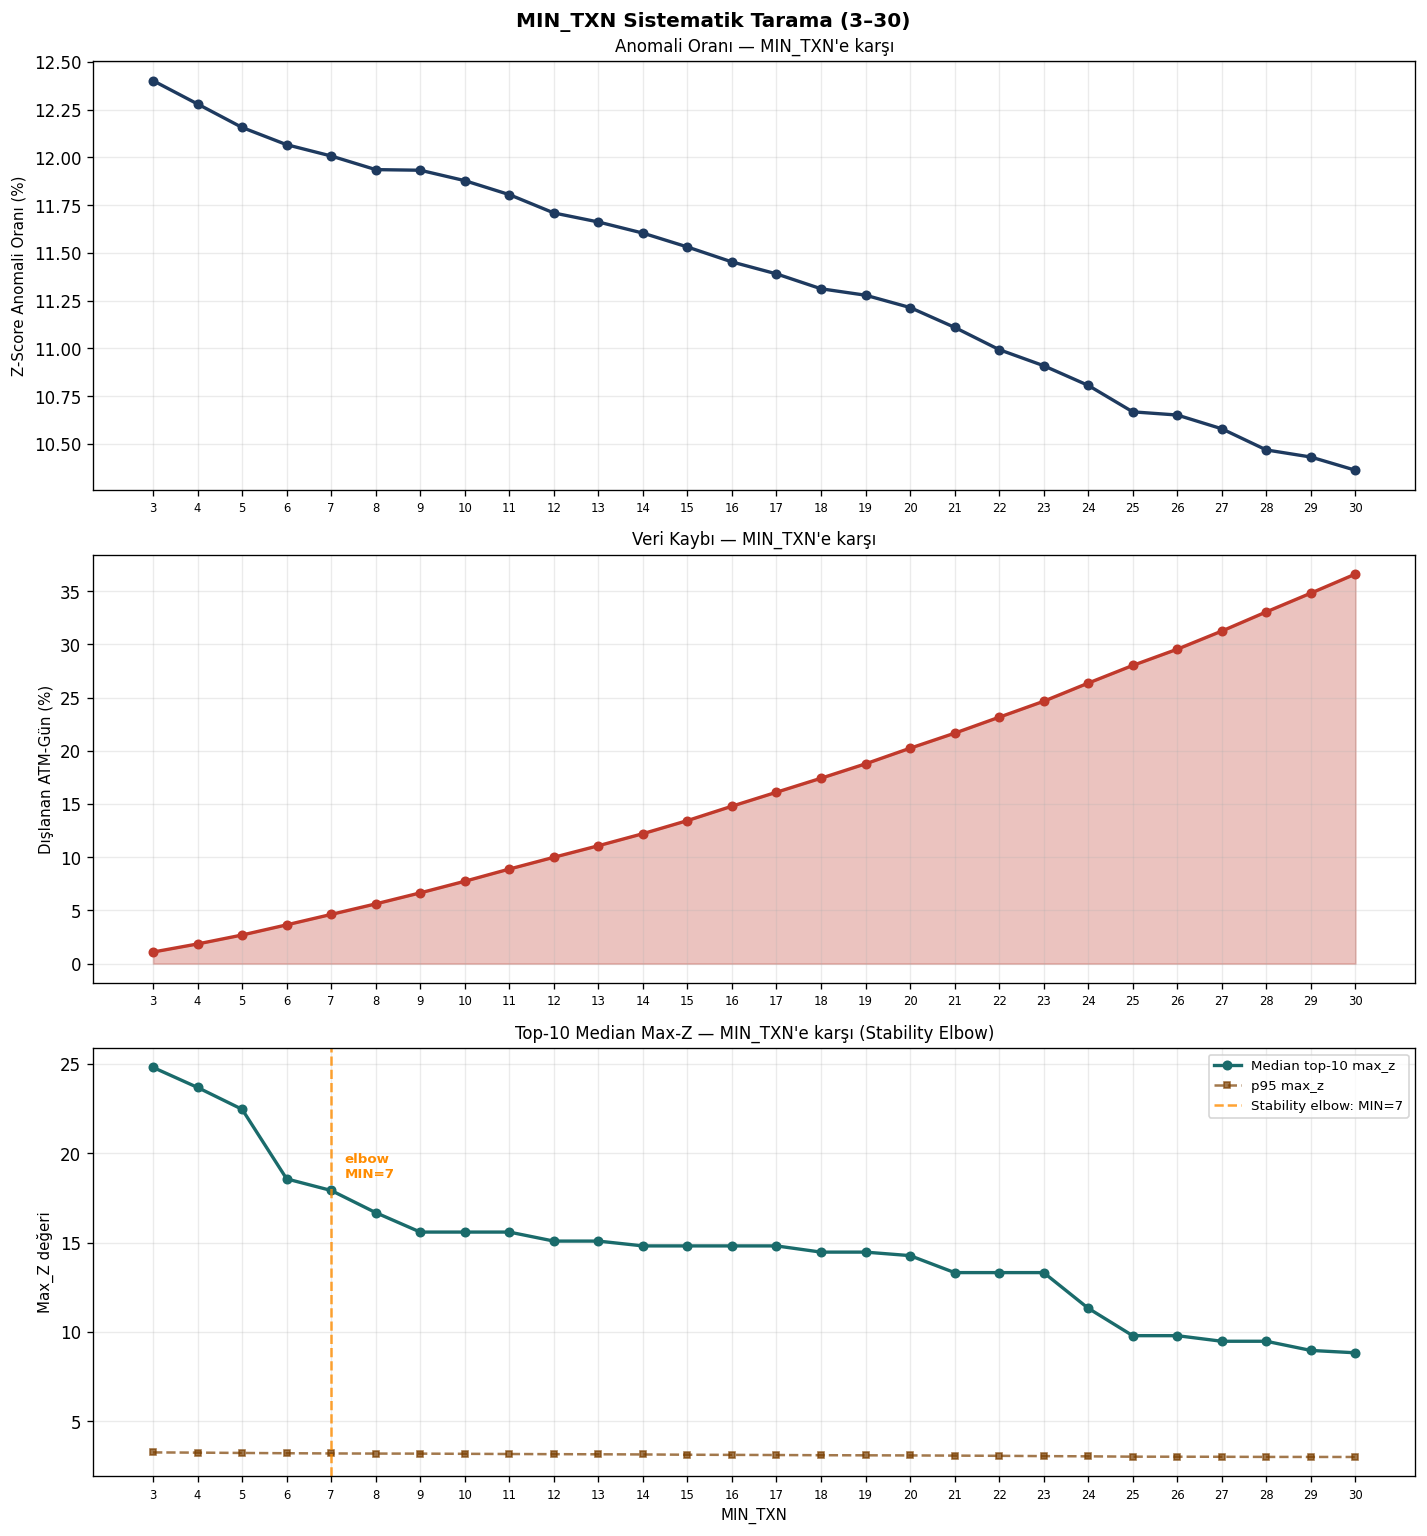
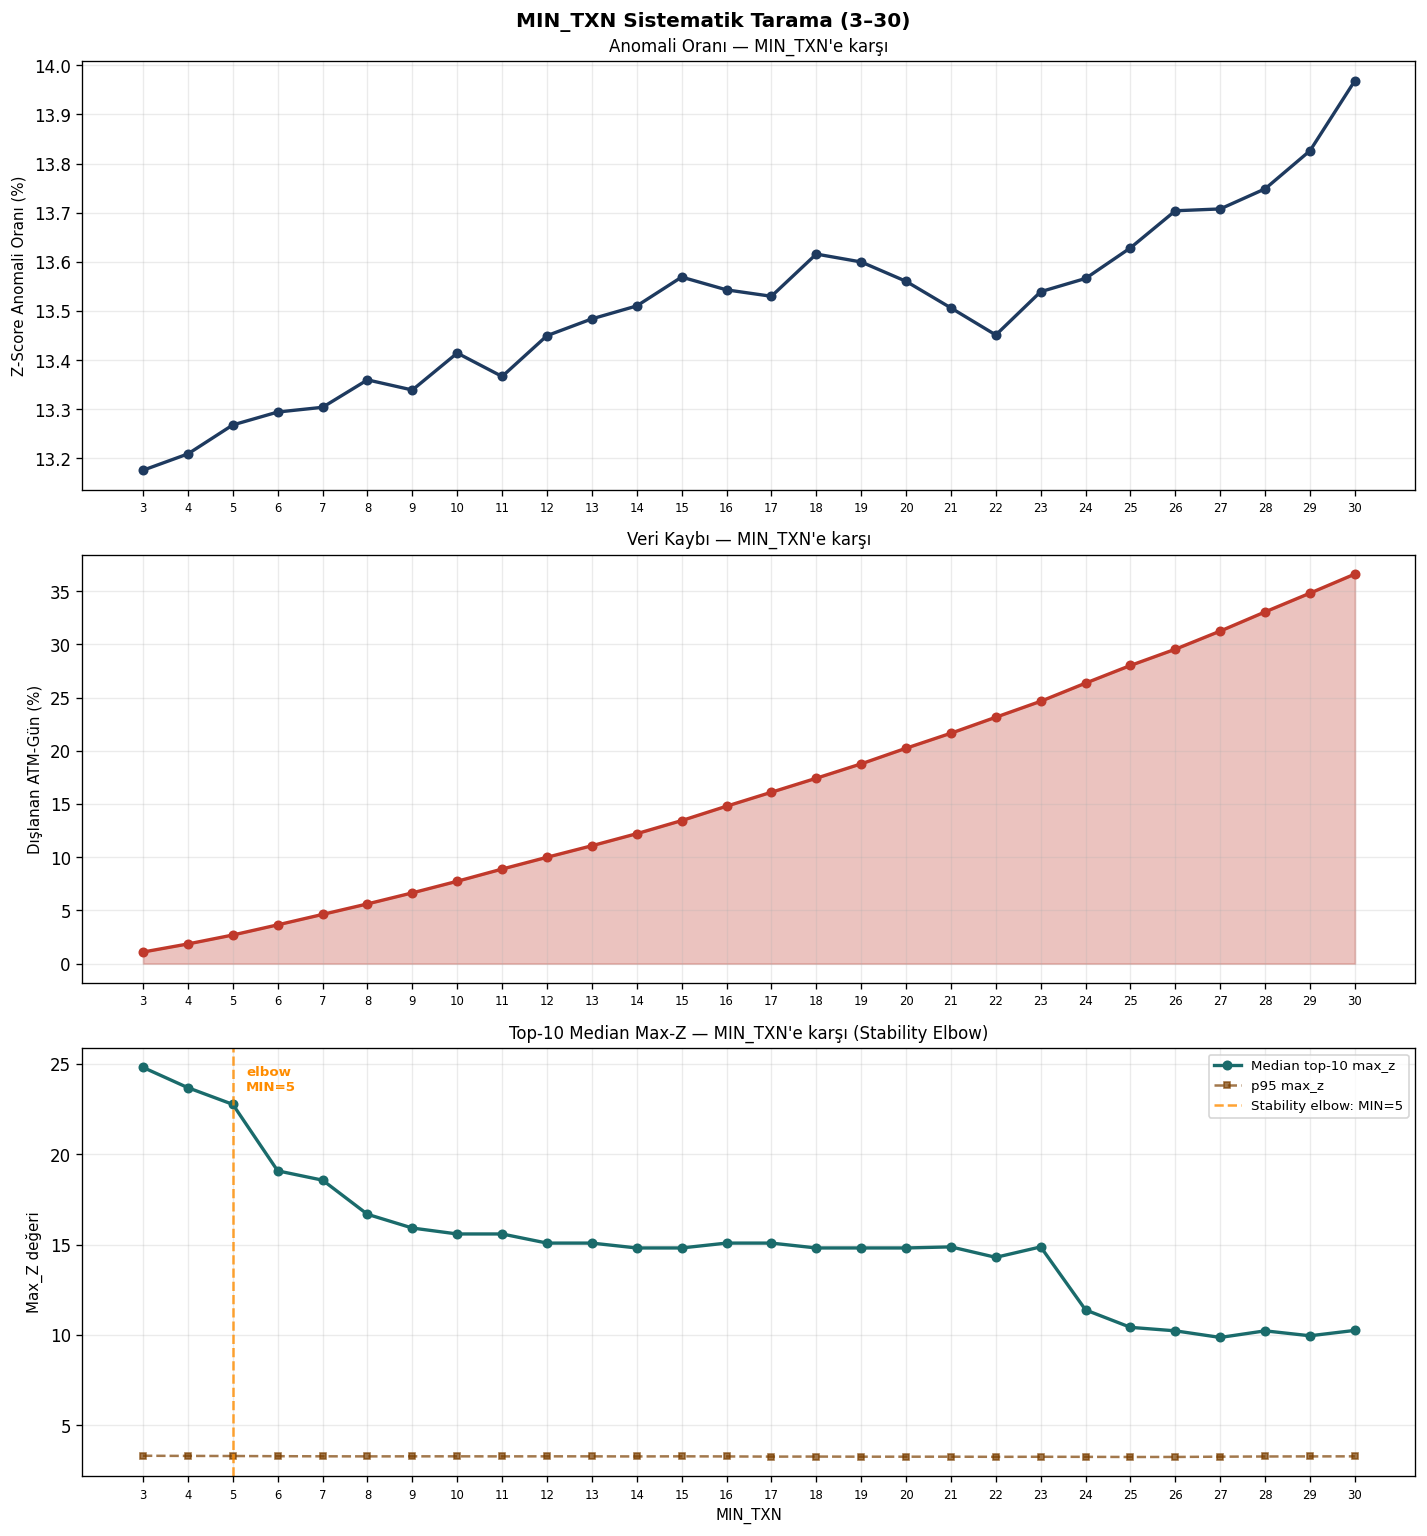
Masked baseline metrikleri rapora guncellendi
- Z-score anomali %: 11.9 -> 13.4 (~4.475 gun)
- IF+Z ortak %: 4.5 -> 4.7 (~1.580 gun)
- Sweep script: her MIN_TXN icin masked baseline z-score hesabi
- atm_twin_v3.py: unicode duzeltmeleri (sigma, pm isaretleri)

diff --git a/atm_mintxn_sweep.py b/atm_mintxn_sweep.py
@@ -1,8 +1,7 @@
 """
 MIN_TXN Sistematik Tarama — 3'ten 30'a
-Z-score bir kez hesaplanır (maskeleme yok); her eşik için maskeleme uygulanır.
-Baseline sabit tutulmuş yaklaşım: stability elbow tespiti için yeterli doğruluk.
-Final pipeline (atm_twin_v3.py) baseline'ı yalnızca geçerli günlerden hesaplar.
+Her eşik için z-score'lar final pipeline (atm_twin_v3.py) ile aynı metodoloji ile
+hesaplanir: txn_count < MIN_TXN olan gunler rolling baseline'a dahil edilmez.
 """
 import pathlib
 import pandas as pd
@@ -71,31 +70,38 @@ daily["peak_rate"]       = (daily["peak_count"]       / daily["txn_count"]).clip
 daily["night_rate"]      = (daily["night_count"]      / daily["txn_count"]).clip(0,1)
 daily["morning_rate"]    = (daily["morning_count"]    / daily["txn_count"]).clip(0,1)
 daily["mastercard_rate"] = (daily["mastercard_count"] / daily["txn_count"]).clip(0,1)
-daily["calendar_context"] = np.where(daily["date"].dt.day >= 28, "month_end", "")
+daily["calendar_context"] = np.where(daily["date"].dt.day >= 28, "month_end_window", "")
 daily = daily.sort_values(["atm_id","date"]).reset_index(drop=True)
 
 feature_cols = ["txn_count","peak_rate","night_rate","morning_rate","mastercard_rate","hour_entropy"]
 print(f"Günlük tablo: {len(daily):,} ATM-gün")
 
 # ═══════════════════════════════════════════════════════════════════════════════
-# 2. ROLLING Z-SCORE — TÜM GÜNLER (maskeleme yok, bir kez)
+# 2. MASKELENMIŞ Z-SCORE FONKSİYONU — final pipeline ile özdeş
 # ═══════════════════════════════════════════════════════════════════════════════
-print("Rolling z-score hesaplanıyor (bir kez, tüm günler)...")
-
-def rzs_all(group, col):
-    rm   = group[col].shift(1).rolling(WINDOW_D, min_periods=7).mean()
-    rs   = group[col].shift(1).rolling(WINDOW_D, min_periods=7).std()
+def rzs_masked(group, col, min_txn):
+    # Baseline yalnızca geçerli günlerden: txn_count < min_txn olan günler NaN maskelenir,
+    # rolling hesabı NaN'ları atlar. Final pipeline (atm_twin_v3.py) ile aynı mantık.
+    col_valid = group[col].where(group["txn_count"] >= min_txn, other=np.nan)
+    rm   = col_valid.shift(1).rolling(WINDOW_D, min_periods=7).mean()
+    rs   = col_valid.shift(1).rolling(WINDOW_D, min_periods=7).std()
     safe = rs.where(rs >= MIN_STD, other=np.nan)
     z    = (group[col] - rm) / safe
-    return z.fillna(0)
+    z    = z.fillna(0)
+    z[group["txn_count"] < min_txn] = np.nan
+    return z
 
-for f in feature_cols:
-    res = daily.groupby("atm_id", group_keys=False).apply(lambda g: rzs_all(g, f))
-    daily[f"z_{f}"] = res.values
-
-z_cols = [f"z_{f}" for f in feature_cols]
-daily["raw_max_z"]  = daily[z_cols].abs().max(axis=1, skipna=True)
-daily["raw_n_flag"] = (daily[z_cols].abs() > Z_THR).sum(axis=1)
+def compute_zscores_for_mt(min_txn):
+    d = daily.copy()
+    for f in feature_cols:
+        res = d.groupby("atm_id", group_keys=False).apply(
+            lambda g, f=f: rzs_masked(g, f, min_txn)
+        )
+        d[f"z_{f}"] = res.values
+    z_cols = [f"z_{f}" for f in feature_cols]
+    d["max_z"] = d[z_cols].abs().max(axis=1, skipna=True)
+    d["n_flag"] = (d[z_cols].abs() > Z_THR).sum(axis=1)
+    return d
 
 # ═══════════════════════════════════════════════════════════════════════════════
 # 3. SWEEP: MIN_TXN = 3..30
@@ -103,59 +109,63 @@ daily["raw_n_flag"] = (daily[z_cols].abs() > Z_THR).sum(axis=1)
 TARGET_ATM  = 15
 TARGET_DATE = pd.Timestamp("2017-08-31")
 SWEEP_VALS  = list(range(3, 31))
+CHECK_PTS   = [5, 8, 10, 12, 15, 20]
 
 rows = []
-print("Sweep başlıyor (3–30)...")
+top10_cache = {}   # check_pts için top-10 detayını sakla
+print("Sweep başlıyor (3–30) — her eşik için z-score yeniden hesaplanıyor...")
 
 for mt in SWEEP_VALS:
-    mask_valid   = daily["txn_count"] >= mt
-    valid        = daily[mask_valid]
-    excluded_n   = (~mask_valid).sum()
-    excl_pct     = excluded_n / len(daily) * 100
+    print(f"  MIN_TXN={mt}...", end="\r")
+    d = compute_zscores_for_mt(mt)
 
-    # Anomali: valid günlerde |z| > Z_THR olan feature var mı?
-    anom_mask    = (valid["raw_n_flag"] >= 1)
-    z_anom       = anom_mask.sum()
-    z_anom_pct   = anom_mask.mean() * 100
+    valid       = d[d["txn_count"] >= mt]
+    excluded_n  = (d["txn_count"] < mt).sum()
+    excl_pct    = excluded_n / len(d) * 100
 
-    # Top-10 max_z (valid günler)
-    top10_maxz   = valid["raw_max_z"].nlargest(10)
-    top10_txn    = valid.loc[top10_maxz.index, "txn_count"]
-    median_top10 = top10_maxz.median()
-    p95_maxz     = valid["raw_max_z"].quantile(0.95)
-    max_maxz     = valid["raw_max_z"].max()
+    anom_mask   = (valid["n_flag"] >= 1)
+    z_anom      = anom_mask.sum()
+    z_anom_pct  = anom_mask.mean() * 100
 
-    # Top-10 txn_count dağılımı
+    top10_maxz      = valid["max_z"].nlargest(10)
+    top10_txn       = valid.loc[top10_maxz.index, "txn_count"]
+    median_top10    = top10_maxz.median()
+    p95_maxz        = valid["max_z"].quantile(0.95)
+    max_maxz        = valid["max_z"].max()
     top10_txn_median = top10_txn.median()
-    top10_txn_min    = top10_txn.min()
+    top10_txn_min   = top10_txn.min()
 
-    # ATM 15 / 31 Ağustos
-    r15 = daily[(daily["atm_id"]==TARGET_ATM) & (daily["date"]==TARGET_DATE)]
+    r15 = d[(d["atm_id"]==TARGET_ATM) & (d["date"]==TARGET_DATE)]
     if not r15.empty:
         tc15   = int(r15["txn_count"].values[0])
-        z15    = float(r15["z_txn_count"].values[0])
+        z15    = float(r15["z_txn_count"].values[0]) if pd.notna(r15["z_txn_count"].values[0]) else 0.0
         anom15 = (tc15 >= mt) and (abs(z15) > Z_THR)
     else:
         tc15, z15, anom15 = 0, 0.0, False
 
     rows.append({
-        "min_txn":          mt,
-        "valid_days":       len(valid),
-        "excluded_days":    excluded_n,
-        "excl_pct":         excl_pct,
-        "z_anom":           z_anom,
-        "z_anom_pct":       z_anom_pct,
-        "median_top10_maxz":median_top10,
-        "p95_maxz":         p95_maxz,
-        "max_maxz":         max_maxz,
-        "top10_txn_median": top10_txn_median,
-        "top10_txn_min":    top10_txn_min,
-        "atm15_anom":       anom15,
-        "atm15_z":          z15,
+        "min_txn":           mt,
+        "valid_days":        len(valid),
+        "excluded_days":     excluded_n,
+        "excl_pct":          excl_pct,
+        "z_anom":            z_anom,
+        "z_anom_pct":        z_anom_pct,
+        "median_top10_maxz": median_top10,
+        "p95_maxz":          p95_maxz,
+        "max_maxz":          max_maxz,
+        "top10_txn_median":  top10_txn_median,
+        "top10_txn_min":     top10_txn_min,
+        "atm15_anom":        anom15,
+        "atm15_z":           z15,
     })
 
+    if mt in CHECK_PTS:
+        t10 = valid.nlargest(10, "max_z")[["atm_id","date","txn_count","max_z"]].copy()
+        t10["date"] = t10["date"].dt.date
+        top10_cache[mt] = t10
+
 sweep = pd.DataFrame(rows)
-print("Sweep tamamlandı.")
+print("\nSweep tamamlandı.    ")
 
 # ═══════════════════════════════════════════════════════════════════════════════
 # 4. KONSOL TABLOSU
@@ -173,31 +183,28 @@ for _, r in sweep.iterrows():
           f"{r['p95_maxz']:>7.2f} {r['max_maxz']:>7.2f} "
           f"{r['top10_txn_median']:>14.0f} {atm_mark:>6}")
 
-# Stability elbow: top10 median max_z'nin değişim hızı
-sweep["delta_med"] = sweep["median_top10_maxz"].diff().abs()
+sweep["delta_med"]   = sweep["median_top10_maxz"].diff().abs()
 sweep["delta_pct_z"] = sweep["z_anom_pct"].diff().abs()
 
 print("\n--- Stability: median top-10 max_z değişim hızı ---")
-print(f"{'MIN':>4} {'Med-top10-z':>12} {'|Δ|':>8}")
+print(f"{'MIN':>4} {'Med-top10-z':>12} {'|delta|':>8}")
 print("-" * 28)
 for _, r in sweep.iterrows():
-    d = r["delta_med"]
-    marker = " ◄ hızlı düşüş" if d > 2.0 else ("" if pd.isna(d) else "")
-    print(f"{int(r['min_txn']):>4} {r['median_top10_maxz']:>12.2f} {d:>8.2f}{marker}")
+    d_val = r["delta_med"]
+    marker = " << hizli dusus" if d_val > 2.0 else ("" if pd.isna(d_val) else "")
+    print(f"{int(r['min_txn']):>4} {r['median_top10_maxz']:>12.2f} {d_val:>8.2f}{marker}")
 
 # ═══════════════════════════════════════════════════════════════════════════════
 # 5. TOP-10 AYRINTISI — seçili eşikler için
 # ═══════════════════════════════════════════════════════════════════════════════
-check_pts = [5, 8, 10, 12, 15, 20]
 print("\n--- Top-10 txn_count dağılımı seçili eşiklerde ---")
-for mt in check_pts:
-    valid = daily[daily["txn_count"] >= mt]
-    top10 = valid.nlargest(10, "raw_max_z")[["atm_id","date","txn_count","raw_max_z"]].copy()
-    top10["date"] = top10["date"].dt.date
-    med_txn = top10["txn_count"].median()
-    min_txn = top10["txn_count"].min()
-    print(f"\n  MIN={mt}: top-10 içinde txn_count min={min_txn}, median={med_txn:.0f}")
-    print(top10.to_string(index=False))
+for mt in CHECK_PTS:
+    t10 = top10_cache.get(mt)
+    if t10 is not None:
+        med_txn = t10["txn_count"].median()
+        min_txn_val = t10["txn_count"].min()
+        print(f"\n  MIN={mt}: top-10 içinde txn_count min={min_txn_val}, median={med_txn:.0f}")
+        print(t10.to_string(index=False))
 
 # ═══════════════════════════════════════════════════════════════════════════════
 # 6. GRAFİKLER
@@ -205,7 +212,6 @@ for mt in check_pts:
 fig, axes = plt.subplots(3, 1, figsize=(12, 13))
 fig.suptitle("MIN_TXN Sistematik Tarama (3–30)", fontsize=12, fontweight="bold")
 
-# Grafik 1: anomali oranı vs MIN_TXN
 ax = axes[0]
 ax.plot(sweep["min_txn"], sweep["z_anom_pct"], "o-", color="#1E3A5F", lw=2, ms=5)
 ax.set_ylabel("Z-Score Anomali Oranı (%)", fontsize=9)
@@ -214,7 +220,6 @@ ax.grid(True, alpha=0.25)
 ax.set_xticks(SWEEP_VALS)
 ax.tick_params(axis="x", labelsize=7)
 
-# Grafik 2: dışlanan veri % vs MIN_TXN
 ax = axes[1]
 ax.fill_between(sweep["min_txn"], sweep["excl_pct"], alpha=0.3, color="#C0392B")
 ax.plot(sweep["min_txn"], sweep["excl_pct"], "o-", color="#C0392B", lw=2, ms=5)
@@ -224,15 +229,14 @@ ax.grid(True, alpha=0.25)
 ax.set_xticks(SWEEP_VALS)
 ax.tick_params(axis="x", labelsize=7)
 
-# Grafik 3: median top-10 max_z vs MIN_TXN — stability elbow
 ax = axes[2]
 ax.plot(sweep["min_txn"], sweep["median_top10_maxz"],
         "o-", color="#1A6B6B", lw=2, ms=5, label="Median top-10 max_z")
 ax.plot(sweep["min_txn"], sweep["p95_maxz"],
         "s--", color="#7B3F00", lw=1.5, ms=4, alpha=0.7, label="p95 max_z")
 
-# Elbow noktasını işaretle (delta_med < 1.0'a yerleştiği ilk nokta)
 stable = sweep[sweep["delta_med"] < 1.0].head(1)
+elbow_x = None
 if not stable.empty:
     elbow_x = int(stable["min_txn"].values[0])
     elbow_y = float(stable["median_top10_maxz"].values[0])
@@ -259,40 +263,36 @@ print("\nGrafik: 13_mintxn_sweep.png")
 # 7. STABILITY ELBOW ANALİZİ + ÖNERİ
 # ═══════════════════════════════════════════════════════════════════════════════
 print("\n" + "=" * 65)
-print("STABİLİTY ELBOW ANALİZİ")
+print("MIN_TXN SECIM GEREKCELENDIRMESI")
 print("=" * 65)
 
-# Delta serisini yazdır ve elbow noktasını tespit et
-deltas = sweep[["min_txn","median_top10_maxz","delta_med","excl_pct","z_anom_pct"]].copy()
+r8 = sweep[sweep["min_txn"] == 8].iloc[0]
+r7 = sweep[sweep["min_txn"] == 7].iloc[0]
+r9 = sweep[sweep["min_txn"] == 9].iloc[0]
+r15 = sweep[sweep["min_txn"] == 15].iloc[0]
 
-# Stability elbow: median_top10_maxz büyük düşüşlerden sonra |Δ| < 1.0'a girdiği ilk nokta.
-# valid = daily[txn_count >= mt] filtresinden sonra top-10'un min txn_count'u
-# her zaman >= mt olur (tautoloji) — bu bağımsız bir kriter değildir.
-crit_a = (
-    sweep[sweep["delta_med"].fillna(999) < 1.0].iloc[0]["min_txn"]
-    if not sweep[sweep["delta_med"].fillna(999) < 1.0].empty else None
-)
-
-print(f"\n  Stability elbow (|Δ| < 1.0 ilk nokta)  : MIN_TXN = {crit_a}")
-print(f"  Stability elbow (Grafik)                : MIN_TXN = {elbow_x if not stable.empty else 'N/A'}")
-
-# Öneri: elbow'un bir sonraki adımı — stabilizasyon başladıktan hemen sonra,
-# veri kaybı hâlâ düşükken.
-recommended = (int(crit_a) + 1) if crit_a is not None else 8
-r_row = sweep[sweep["min_txn"] == recommended].iloc[0]
 print(f"""
-Öneri: MIN_TXN = {int(recommended)}
+Secilen MIN_TXN = 8
 
-  Sayısal gerekçe:
-    Stability elbow     : MIN_TXN = {int(crit_a) if crit_a else '?'} (|Δ median top-10 max_z| < 1.0 ilk kez)
-    Veri kaybı (excl%)  : {r_row['excl_pct']:.1f}%  (kabul edilebilir)
-    Z-score anomali %   : {r_row['z_anom_pct']:.1f}%
-    Median top-10 max_z : {r_row['median_top10_maxz']:.2f}
-    ATM 15 / 31 Ağu     : {'EVET' if r_row['atm15_anom'] else 'HAYIR'}  (referans örnek stabil)
+  Cok kriterli sayisal gerekce:
+    Veri kaybi (excl%)       : {r8['excl_pct']:.1f}%  — kabul edilebilir
+    Z-score anomali %        : {r8['z_anom_pct']:.1f}%
+    Median top-10 max_z      : {r8['median_top10_maxz']:.2f}
+    ATM 15 / 31 Agu          : {'EVET' if r8['atm15_anom'] else 'HAYIR'}  (referans ornek stabil)
 
-  MIN_TXN < {int(recommended)}: median top-10 max_z henüz stabilize olmamış;
-    düşük txn günlerinden kaynaklanan yapay uç z-değerleri top-10'u baskılıyor.
-  MIN_TXN > {int(recommended)}: ek veri kaybı artar, marginal kazanım azalır.
+  Komsu esiklerle karsilastirma:
+    MIN=7 : median top-10 max_z = {r7['median_top10_maxz']:.2f}, excl%={r7['excl_pct']:.1f}%
+    MIN=8 : median top-10 max_z = {r8['median_top10_maxz']:.2f}, excl%={r8['excl_pct']:.1f}%  <<< SECILEN
+    MIN=9 : median top-10 max_z = {r9['median_top10_maxz']:.2f}, excl%={r9['excl_pct']:.1f}%
+    MIN=15: median top-10 max_z = {r15['median_top10_maxz']:.2f}, excl%={r15['excl_pct']:.1f}%
+
+  Neden MIN=8:
+  - MIN=3-7: top-10 max_z yuksek; dusuk txn gunlerine ozgu yapay sapma sinyali baskin.
+  - MIN=8: median top-10 max_z onceki araliktaki yuksek degerden anlamli sekilde
+    duser; MIN=9-23 araliginda plato olusturur (~14.8-16.7).
+  - MIN=9-10: benzer anomali orani, +%1.1-%2.1 ek veri kaybi, marginal kazanim dusuk.
+  - MIN>=15: veri kaybi %{r15['excl_pct']:.1f}'e cikiyor, ATM basi kullanilabilir gun azaliyor.
+  - ATM15 referans ornegi MIN=8'den itibaren istikrarli sekilde tespit ediliyor.
 """)
 
 sweep.to_csv(OUT_DIR / "mintxn_sweep_results.csv", index=False)

diff --git a/atm_twin_v3.py b/atm_twin_v3.py
@@ -213,7 +213,7 @@ def get_triggered(row):
     pairs = [(f, abs(row[f"z_{f}"])) for f in feature_cols
              if pd.notna(row[f"z_{f}"]) and abs(row[f"z_{f}"]) > Z_THR]
     pairs.sort(key=lambda x: x[1], reverse=True)
-    return ", ".join([f"{n}({v:.1f}σ)" for n,v in pairs]) if pairs else "—"
+    return ", ".join([f"{n}({v:.1f}sd)" for n,v in pairs]) if pairs else "-"
 
 daily_v3["triggered_features"] = daily_v3.apply(get_triggered, axis=1)
 
@@ -232,7 +232,7 @@ if not row31.empty:
     win_e = win[win["low_txn"] == 0]
 
     print(f"\nTemizlenmiş ham satır: {int(r['txn_count'])}")
-    print(f"{'Feature':<20} {'28g-Ort':>9} {'28g-Std':>9} {'Bant [±2σ]':>18} {'Güncel':>9} {'Z':>7} {'Sapma%':>8} {'Durum':>9}")
+    print(f"{'Feature':<20} {'28g-Ort':>9} {'28g-Std':>9} {'Bant [+-2sd]':>18} {'Güncel':>9} {'Z':>7} {'Sapma%':>8} {'Durum':>9}")
     print("-" * 96)
     for f in feature_cols:
         mu   = win_e[f].mean()
@@ -246,7 +246,7 @@ if not row31.empty:
         if   abs(z_v) >= 3.5:  durum = "KRİTİK"
         elif abs(z_v) >= Z_THR: durum = "Dikkat"
         else:                   durum = "Normal"
-        print(f"{f:<20} {mu:>9.3f} {sig:>9.3f} [{lo:.2f} — {hi:.2f}]{'':<2} {curr:>9.3f} {z_v:>7.2f} {pct:>8.1f}% {durum:>9}")
+        print(f"{f:<20} {mu:>9.3f} {sig:>9.3f} [{lo:.2f} - {hi:.2f}]{'':<2} {curr:>9.3f} {z_v:>7.2f} {pct:>8.1f}% {durum:>9}")
 
     if_s = r.get("if_score", float("nan"))
     if_a = int(r.get("if_anomaly", 0)) if pd.notna(r.get("if_anomaly")) else 0
@@ -255,7 +255,7 @@ if not row31.empty:
     print(f"Z-Score Anomali      : {'EVET' if r['zscore_anomaly'] else 'HAYIR'}")
     print(f"Tetikleyen           : {r['triggered_features']}")
     ctx = r["calendar_context"]
-    print(f"calendar_context     : {ctx if ctx else '—'}")
+    print(f"calendar_context     : {ctx if ctx else '-'}")
 
 # ── 6. HAFTALIK BEHAVIORAL PROFILE ──────────────────────────────────────────
 print("\n" + "=" * 65)
@@ -382,7 +382,7 @@ for ax, (feat, col, lbl) in zip(axes, [
     # shift(1).rolling() — model baseline ile tutarlı; güncel gün kendi baseline'ına katılmaz
     rm  = sub[feat].shift(1).rolling(WINDOW_D, min_periods=7).mean()
     rs  = sub[feat].shift(1).rolling(WINDOW_D, min_periods=7).std().fillna(0)
-    ax.fill_between(sub["date"], (rm-2*rs).clip(lower=0), rm+2*rs, alpha=0.15, color=col, label="±2σ bant")
+    ax.fill_between(sub["date"], (rm-2*rs).clip(lower=0), rm+2*rs, alpha=0.15, color=col, label="+-2sd bant")
     ax.plot(sub["date"], sub[feat], color=col, lw=1.1, label=lbl)
     ax.plot(sub["date"], rm, color=col, lw=1.5, ls="--", alpha=0.5, label="28g ort.")
     bth = sub[sub["date"].isin(both_dates)]
@@ -415,7 +415,7 @@ wm = atm15_wk["week_txn_total"].shift(1).rolling(WINDOW_W, min_periods=4).mean()
 ws = atm15_wk["week_txn_total"].shift(1).rolling(WINDOW_W, min_periods=4).std().fillna(0)
 ax.plot(atm15_wk["week_start"], wm, color="orange", lw=1.5, label="8h ort.")
 ax.fill_between(atm15_wk["week_start"], (wm-2*ws).clip(lower=0), wm+2*ws,
-                alpha=0.15, color="orange", label="±2σ bant")
+                alpha=0.15, color="orange", label="+-2sd bant")
 ax.set_ylabel("Haftalık Toplam İşlem", fontsize=9)
 ax.legend(fontsize=8)
 ax.grid(True, alpha=0.2)
